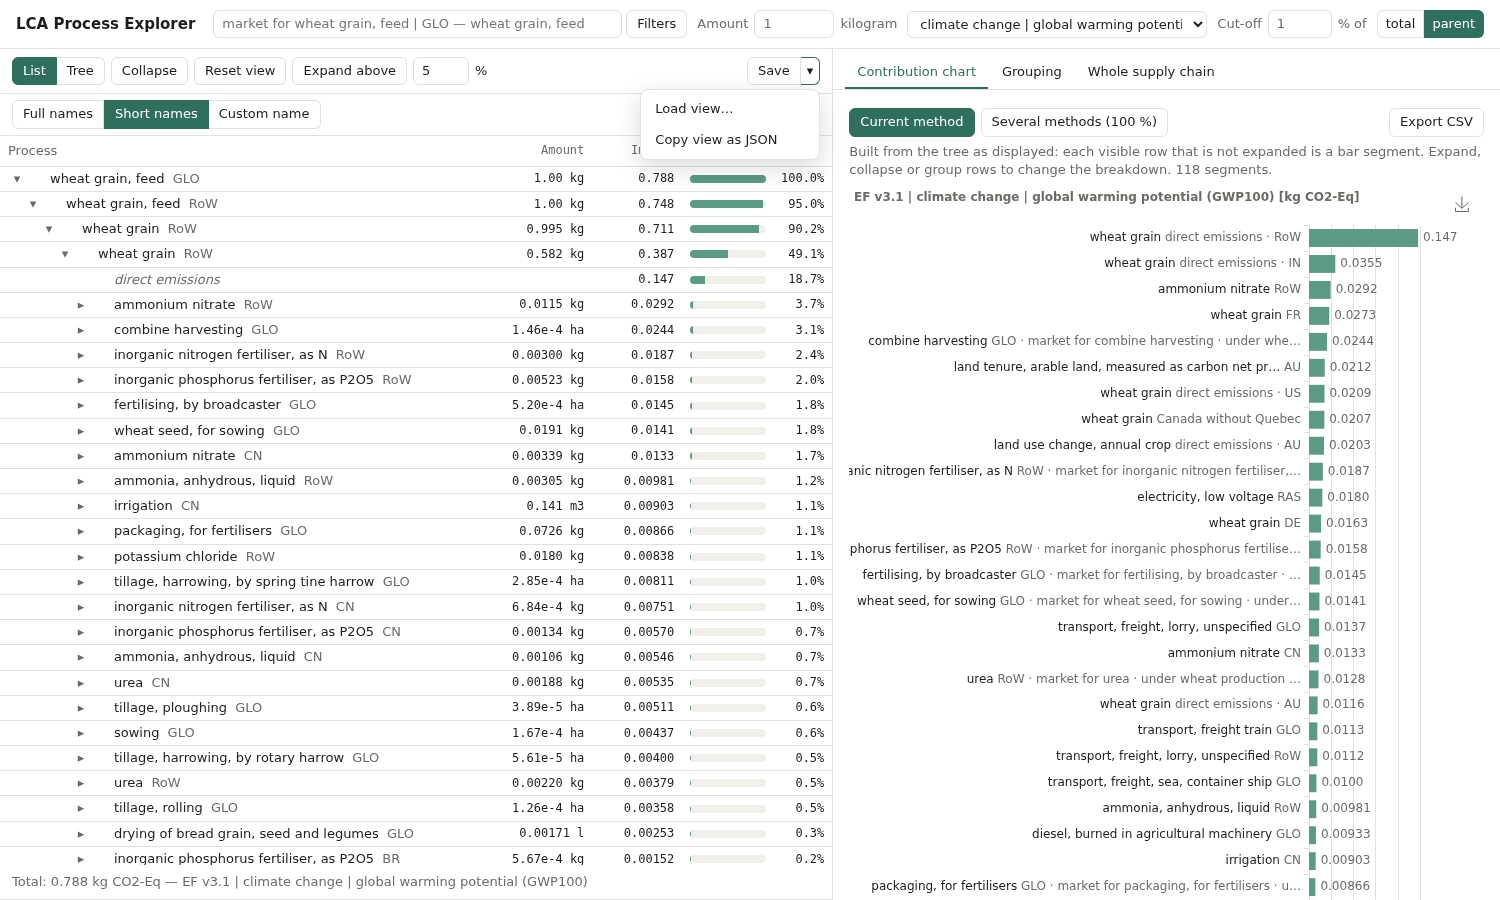
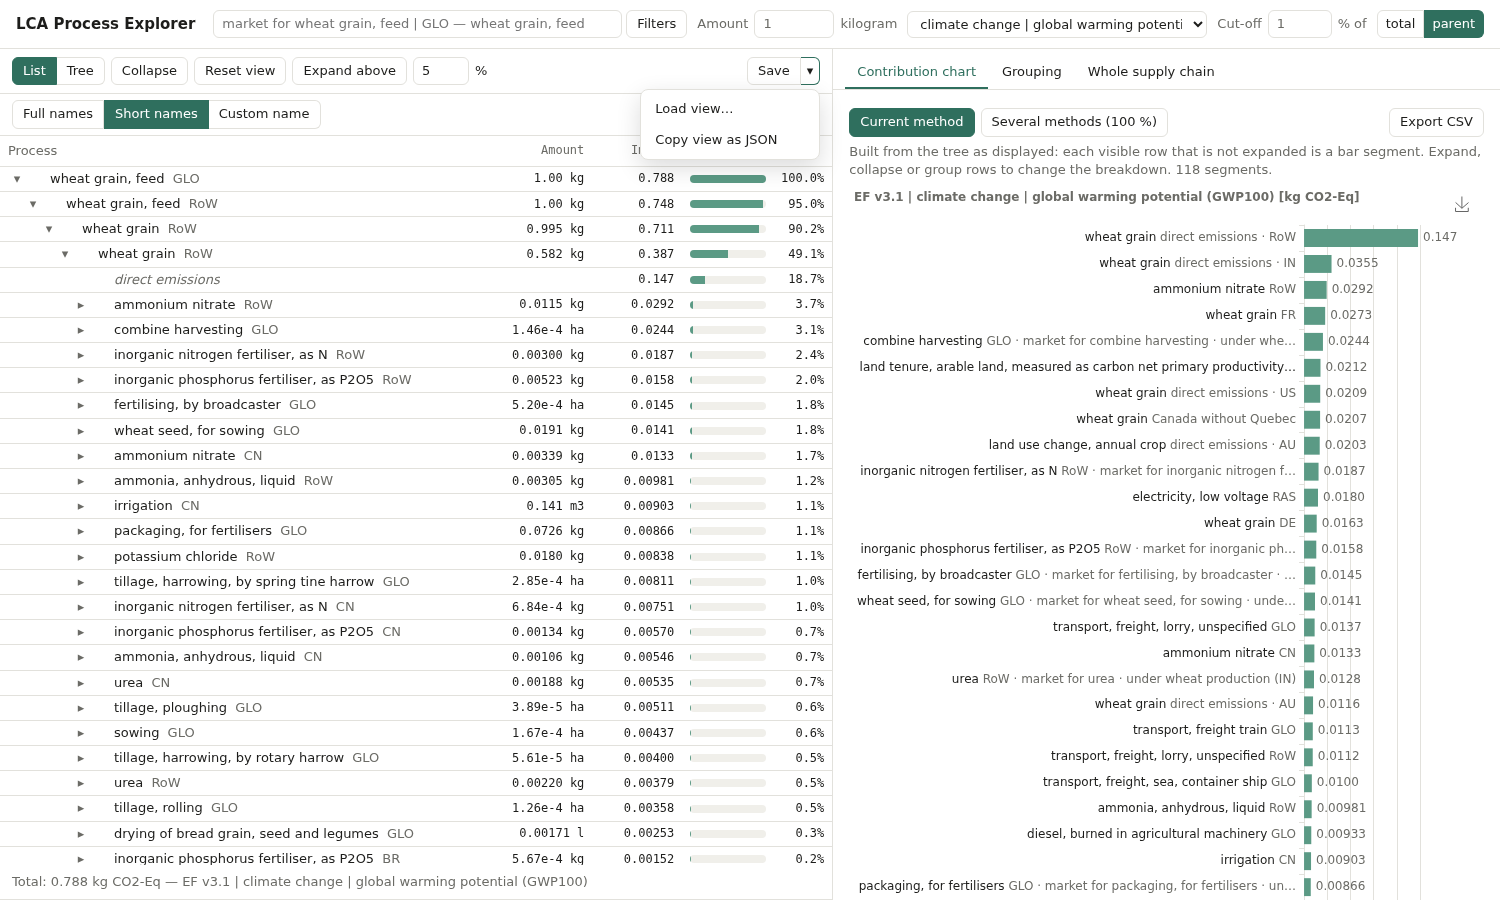
Chart labels shortened to fit (grey qualifier first)

Changed region(s): [[0.552, 0.2489, 0.92, 0.9956]]

diff --git a/src/lca_viewer/static/app.js b/src/lca_viewer/static/app.js
@@ -833,6 +833,15 @@ function nameItems(items, naming, recipe, byId) {
 }
 
 const richSafe = (text) => String(text).replace(/[{}|]/g, " ");
+const LABEL_WIDTH = 440;  // px available for chart row labels
+// Shorten a two-tone label to fit: the grey qualifier first, then the main text
+function fitLabel(main, qual, width) {
+  const fits = (m, q) => textWidth(q ? `${m} ${q}` : m) <= width;
+  let m = main, q = qual || "";
+  while (q && !fits(m, q)) q = q.length > 2 ? `${q.slice(0, -2)}…` : "";
+  while (!fits(m, q) && m.length > 4) m = `${m.slice(0, -2)}…`;
+  return [m, q];
+}
 let measureContext = null;
 function textWidth(text) {
   measureContext = measureContext || document.createElement("canvas").getContext("2d");
@@ -887,9 +896,9 @@ function ChartPanel({ data, info, method, chartMethods, setChartMethods, view })
     const o = baseOption();
     const items = [...parts].reverse();
     const groupColor = cssVar("--group");
-    const shown = items.map((p) => [truncate(p.main, 52), p.qual ? truncate(p.qual, 48) : ""]);
+    const shown = items.map((p) => fitLabel(p.main, p.qual, LABEL_WIDTH));
     o.grid = { ...o.grid, containLabel: false, top: 36, bottom: 28,
-      left: Math.min(460, Math.max(...shown.map(([m, q]) => textWidth(q ? `${m} ${q}` : m))) + 16) };
+      left: Math.max(...shown.map(([m, q]) => textWidth(q ? `${m} ${q}` : m))) + 16 };
     o.title = { text: `${methodLabel(info.methods[method])} [${unit}]`, textStyle: { fontSize: 12, color: cssVar("--muted") } };
     o.yAxis = {
       ...o.yAxis, type: "category", data: items.map((_, i) => String(i)),
